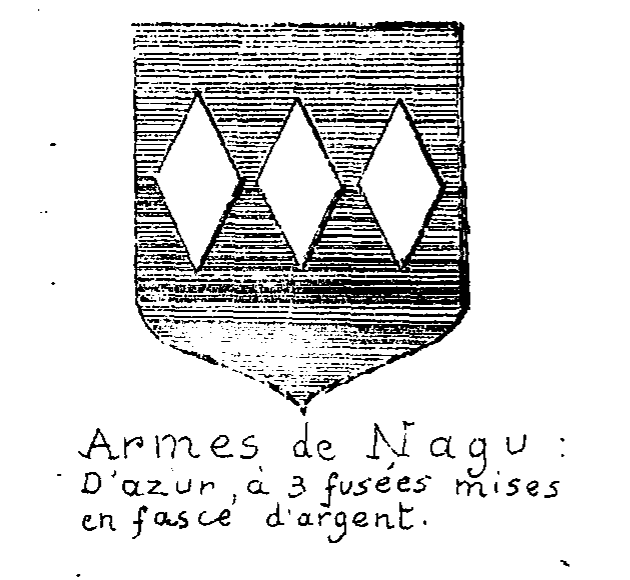
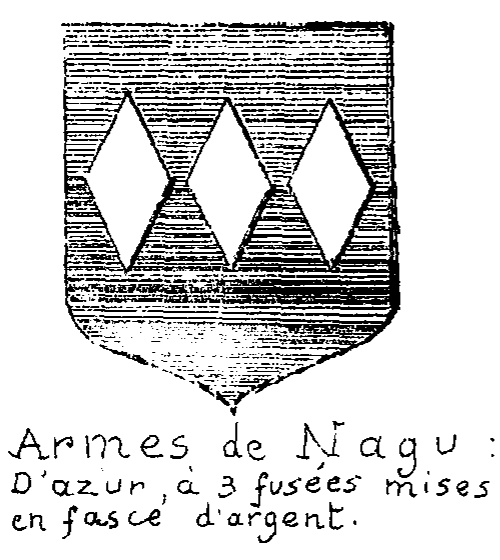
fix: agrandir le blason de Nagu

Changed region(s): [[0.03, 0.0304, 0.99, 0.9714], [0.03, 0.9107, 0.09, 0.9714]]

diff --git a/Chapitres/08-nagu.tex b/Chapitres/08-nagu.tex
@@ -61,11 +61,11 @@ de Philippe Auguste ; les deux étages dateraient, au plus tôt, de la fin du XI
 Celle du premier étage, avons-nous dit, est une imitation grossière de la coupole de l'église même d'Ouroux : voûte octogonale dans la partie circulaire. Nous sommes portés à admettre naturellement qu'elle fut construite à l'époque où ce genre d'architecture prévalait dans nos contrées, c'est-à-dire vers le XII° siècle.
 
 \noindent
-\begin{minipage}[t]{0.31\textwidth}
+\begin{minipage}[t]{0.52\textwidth}
     \vspace{-0.5\baselineskip}
-    \includegraphics[width=0.28\textwidth]{Illustrations/illus-nagu-armoiries.png}
+    \includegraphics[width=0.50\textwidth]{Illustrations/illus-nagu-armoiries.png}
 \end{minipage}\hfill
-\begin{minipage}[t]{0.66\textwidth}
+\begin{minipage}[t]{0.46\textwidth}
     \vspace{-0.5\baselineskip}
     \subsection*{Famille de Nagu}
     La famille de Nagu a appartenu de toute antiquité à la famille du même nom, l'une des plus anciennes et des plus illustres de nos contrées. La filiation suivie que nous possédons de cette famille ne remonte qu'à l'époque où elle quitte Ouroux pour se fixer à Varennes, commune de Quincié en 1374.
